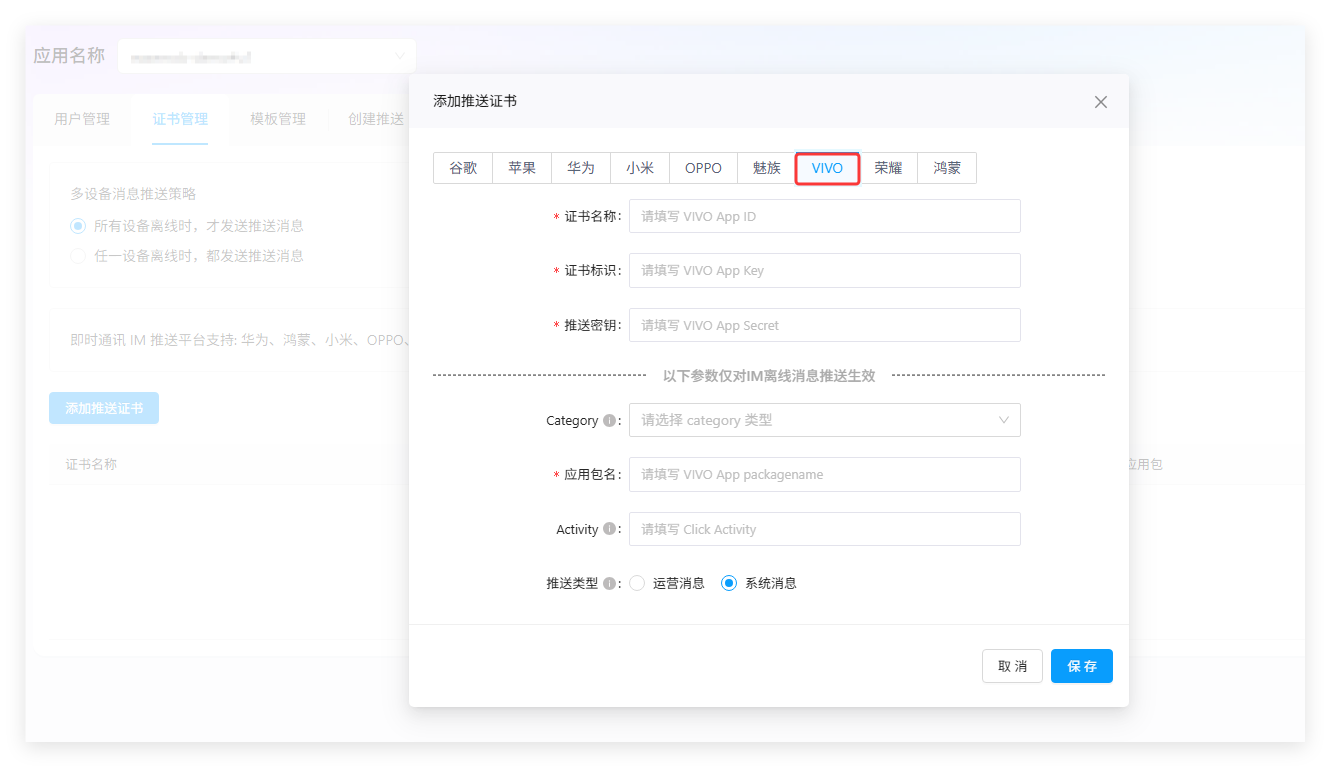
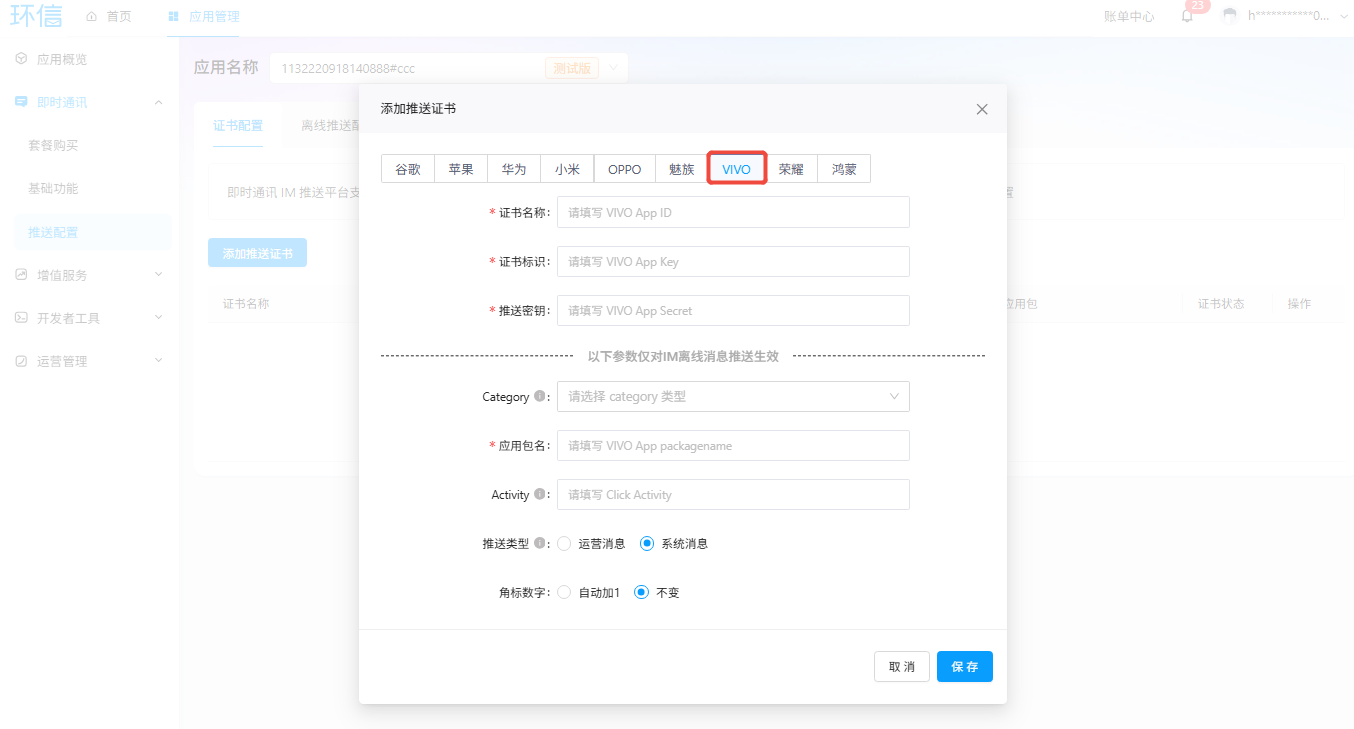
Add vivo Push Badge Doc

diff --git a/docs/value-added/push/push_notification_config.md b/docs/value-added/push/push_notification_config.md
@@ -44,7 +44,8 @@
     },
     "vivo": {
         "classification": 1,
-        "category": "IM"
+        "category": "IM",
+        "addBadge": true
     },
     "apns": {
         "contentAvailable": true,
@@ -84,7 +85,7 @@ FCM 通道推送通知示例如下：
 | `ext`                | Object | 推送自定义扩展信息，为自定义 key-value 键值对。键值对个数不能超过 10 且长度不能超过 1024 个字符。 | iOS & Android | 否       |
 | `config`             | Object | 与用户点击通知相关的操作。以及角标的配置，包含 `clickAction` 和 `badge` 字段。 | iOS & Android | 否       |
 | `config.clickAction` | Object | 在通知栏中点击触发的动作，均为字符串类型：<br/> - `url`：打开自定义的 URL；<br/> - `action`：打开应用的指定页面；<br/> - `activity`：打开应用包名或 Activity 组件路径。若不传该字段，默认打开应用的首页。<br/><Container type="notice" title="注意">环信 iOS 推送通道只支持设置为 `url`。</Container> | Android       | 否       |
-| `config.badge`       | Object | 推送角标，包含以下三个字段：<br/> - `addNum`：整型，表示推送通知到达设备时，角标数字累加的值。<br/> - `setNum`：整型，表示推送通知到达设备时，角标数字显示的值。<br/> - `activity`：字符串类型，入口类（华为角标需要配置）。 | Android       | 否       |
+| `config.badge`       | Object | 推送角标，包含以下三个字段：<br/> - `addNum`：整型，表示推送通知到达设备时，角标数字累加的值。<br/> - `setNum`：整型，表示推送通知到达设备时，角标数字显示的值。<br/> - `activity`：字符串类型，入口类（华为角标需要配置）。<br/> 上述配置不适用于 vivo 厂商通道。通过该通道发送通知时，需使用 [`vivo.addBadge`](#vivo-推送说明) 单独控制角标是否自动加 1。 | Android       | 否       |
 
 ## 各厂商推送配置
 
@@ -340,11 +341,12 @@ FCM 通道推送通知示例如下：
 
 ### vivo 推送说明
 
-系统消息，回执和打开网页。
+以下为 `pushMessage.vivo` 的配置示例，包含系统消息、回执、打开网页以及数字角标自动加 1：
 
 ```json
 {
     "classification": 1,
+    "addBadge": true,
     "extra": {
       "callback": "http://www.easemob.com/callback",
       "callbackParam": "test push callback"
@@ -374,6 +376,13 @@ FCM 通道推送通知示例如下：
 | `notifyId`        | Int    | 通知 ID，即通知的唯一标识。若多个消息的通知 ID 相同，到达设备的新消息会覆盖旧消息显示在设备通知栏中。取值范围为：1-2147483647。 |
 | `profileId` | String| 关联终端设备登录用户标识，最大长度为 64 字符。|
 | `sendOnline` | Bool| 是否在线直推，设置为 `true` 表示是在线直推，`false` 表示非直推。在线直推功能推送时在设备在线下发一次，设备离线直接丢弃。|
+| `addBadge` | Boolean | 是否在 vivo 通知到达设备时使应用图标的数字角标自动加 1。<br/> - `true`：自动加 1。<br/> - `false` 或不传：该条推送不改变角标数字，保持历史默认行为。<br/> 该参数仅控制自动加 1，不支持设置任意角标数或清零。 |
+
+使用数字角标前，需在 vivo 侧开通该能力，并按 [vivo 桌面角标设置方法](https://dev.vivo.com.cn/documentCenter/doc/788) 完成应用的系统角标 API 对接，确保设备允许显示数字角标。
+
+独立 Push 服务通过 vivo 厂商通道发送通知时，将 `addBadge` 放在请求的 `pushMessage.vivo` 中，并使用 JSON 布尔值 `true` 或 `false`。通用的 `config.badge.addNum`、`config.badge.setNum` 以及环信通道的 `easemob.badge` 不能替代 `vivo.addBadge`；在线通过环信通道展示的角标也不会自动应用到 vivo 厂商通知。仅配置 IM 离线推送证书中的 **角标数字**，不会为独立 Push 请求补充该字段。
+
+若使用即时通讯 IM 的离线消息推送，请通过 [vivo 推送证书中的 **角标数字** 选项](push_certificate_config.html#vivo-推送证书) 配置。该功能不需要修改 Android IM SDK 的初始化代码。
 
 #### vivo 推送回调
 

diff --git a/docs/value-added/push/push_send_notification.md b/docs/value-added/push/push_send_notification.md
@@ -10,6 +10,8 @@
 - [向指定标签下的用户群推送通知](#按标签推送用户群)
 - [向全量用户发送推送通知](#全量推送)
 
+以上接口均可通过 `pushMessage.vivo.addBadge` 配置 vivo 数字角标，仅在通知实际通过 vivo 厂商通道下发时生效。使用条件及参数说明详见 [vivo 推送说明](push_notification_config.html#vivo-推送说明)，请求示例见 [异步批量推送多用户](#异步批量推送多用户)。
+
 **推送任务说明**
 
 调用 [全量推送](#全量推送) 和 [按标签推送](#按标签推送用户群)  接口以及在 [环信控制台创建推送任务](/value-added/push/push_task_create.html) 时，均会创建推送任务，受以下限制：
@@ -312,6 +314,8 @@ POST https://{host}/{org_name}/{app_name}/push/single
 
 #### 请求示例
 
+以下示例通过 `vivo.addBadge: true` 开启 vivo 数字角标，通知经 vivo 厂商通道到达设备后，角标数字自动加 1。其他接口也可在 `pushMessage.vivo` 中添加相同配置；例如，`strategy: 3` 时，仅通过 vivo 通道下发的通知使用该配置，在线通过环信通道下发时不使用该配置。
+
 ```shell
 将 <YourAppToken> 替换为你在服务端生成的 App Token
 curl -X POST 'http://localhost:8099/easemob-demo/testy/push/single' \
@@ -326,7 +330,7 @@ curl -X POST 'http://localhost:8099/easemob-demo/testy/push/single' \
         "subTitle": "Hello",
         "content": "Hello",
         "vivo": {
- 
+            "addBadge": true
         }
     }
 }'
@@ -487,8 +491,7 @@ curl -X POST 'http://localhost:8099/easemob-demo/testy/push/task' \
     "pushMessage": {
         "title": "Hello1234",
         "subTitle": "Hello",
-        "content": "Hello",
-        "vivo": {}
+        "content": "Hello"
     }
 }'
 ```

diff --git a/docs/value-added/push/push_task_create.md b/docs/value-added/push/push_task_create.md
@@ -101,7 +101,7 @@
 | 定时时间 | 推送通知的具体时间。  |
 | 离线消息保留时长 | 离线消息保留时长设置只适用厂商通道，环信通道离线消息保留时长默认 7 天。 |
 | 通道策略 |选择合适的推送发送策略：<br/> - （默认策略）环信通道优先，在线走环信，离线走厂商。 <br/> - 只通过第三方厂商推送（失败后直接丢弃）。 <br/> - 在线或者离线都通过环信通道推送。<br/> - 厂商通道优先，失败时走环信通道。|
-| 角标数字 | 该角标为环信通道角标设置：<br/> - 厂商通道仅支持华为 EMUI4.1 以上。 <br/> - APNS 仅支持不变和设置数字。 <br/> - 选择不变时，表示不改变角标数字（小米设备由于系统控制，无论选择环信通道还是厂商通道下发，默认角标 +1 的效果）。 |
+| 角标数字 | 该角标为环信通道角标设置：<br/> - 此处的厂商通道角标设置仅支持华为 EMUI4.1 以上。<br/> - vivo 厂商通道需通过 [发送推送通知 REST API](push_send_notification.html) 单独设置 `pushMessage.vivo.addBadge: true`，使角标自动加 1；使用条件及参数说明详见 [vivo 数字角标配置](push_notification_config.html#vivo-推送说明)。<br/> - APNs 仅支持不变和设置数字。 <br/> - 该参数选择 **不变** 时，不主动修改角标数字。小米设备的角标由系统管理，实际显示效果以设备系统行为为准。 |
 | 消息提示 | 设置提醒方式，包含提示音和震动。 |
 
 2. 配置完成后，点击 **发送预览** 预览推送配置。

diff --git a/docs/value-added/push/push_certificate_config.md b/docs/value-added/push/push_certificate_config.md
@@ -142,6 +142,7 @@
 | 应用包名     | String | 是     | VIVO App package name。该参数仅对离线推送有效。   |
 | Activity| String | 否     | 点击通知后的动作。 该参数仅对离线推送有效。 |
 | 推送类型     | String |  否    |可选择 **运营消息** 或 **系统消息**。该参数仅对离线推送有效。 |
+| 角标数字 | Boolean | 否 | 设置通知到达设备后是否使应用图标的数字角标自动加 1，**仅对 IM 离线推送有效**：<br/>  - **自动加1**：对应 `addBadge: true`，角标数字自动加 1。<br/>  - **不变**（默认）：对应 `addBadge: false`，该条通知不改变角标数字，不表示清零。历史证书默认保持原有行为。   <br/>使用 **即时推送** 服务通过 vivo 厂商通道发送通知时，需在请求中配置 `pushMessage.vivo.addBadge`，此处的证书选项不适用于该场景。  两种场景均需先开通 vivo 数字角标能力，并按 [vivo 桌面角标设置方法](https://dev.vivo.com.cn/documentCenter/doc/788) 完成应用的系统角标 API 对接，确保设备允许显示数字角标。IM 离线推送的接入步骤详见 [集成 vivo 推送](/document/android/push/push_vivo.md#步骤二-上传推送证书)。|
 
 ### 荣耀推送证书
 

diff --git a/docs/v4/android/push/push_vivo.md b/docs/v4/android/push/push_vivo.md
@@ -27,6 +27,7 @@
 | 应用包名     | String | 是     | VIVO App package name。该参数仅对离线推送有效。   |
 | Activity| String | 否     | 点击通知后的动作。 该参数仅对离线推送有效。 |
 | 推送类型     | String |  否    |可选择 **运营消息** 或 **系统消息**。该参数仅对离线推送有效。 |
+| 角标数字 | Boolean | 否 | 设置通知到达设备后是否使应用图标的数字角标自动加 1，**仅对 IM 离线推送有效**：<br/>  - **自动加1**：对应 `addBadge: true`，角标数字自动加 1。<br/>  - **不变**（默认）：对应 `addBadge: false`，该条通知不改变角标数字，不表示清零。历史证书默认保持原有行为。  <br/>使用前，需在 vivo 侧开通数字角标能力，并按 [vivo 桌面角标设置方法](https://dev.vivo.com.cn/documentCenter/doc/788) 完成应用的系统角标 API 对接，确保设备允许显示数字角标。  若使用 **即时推送**服务通过 vivo 厂商通道发送通知，请另行配置 [`pushMessage.vivo.addBadge`](/value-added/push/push_notification_config.html#vivo-推送说明)。|
 
 ## **步骤三 集成 VIVO 推送 SDK**
 

diff --git a/docs/document/android/push/push_vivo.md b/docs/document/android/push/push_vivo.md
@@ -27,6 +27,7 @@
 | 应用包名     | String | 是     | VIVO App package name。该参数仅对离线推送有效。   |
 | Activity| String | 否     | 点击通知后的动作。 该参数仅对离线推送有效。 |
 | 推送类型     | String |  否    |可选择 **运营消息** 或 **系统消息**。该参数仅对离线推送有效。 |
+| 角标数字 | Boolean | 否 | 设置通知到达设备后是否使应用图标的数字角标自动加 1，**仅对 IM 离线推送有效**：<br/>  - **自动加1**：对应 `addBadge: true`，角标数字自动加 1。<br/>  - **不变**（默认）：对应 `addBadge: false`，该条通知不改变角标数字，不表示清零。历史证书默认保持原有行为。  <br/>使用前，需在 vivo 侧开通数字角标能力，并按 [vivo 桌面角标设置方法](https://dev.vivo.com.cn/documentCenter/doc/788) 完成应用的系统角标 API 对接，确保设备允许显示数字角标。  若使用 **即时推送**服务通过 vivo 厂商通道发送通知，请另行配置 [`pushMessage.vivo.addBadge`](/value-added/push/push_notification_config.html#vivo-推送说明)。|
 
 ## 步骤三 集成 VIVO 推送 SDK
 
